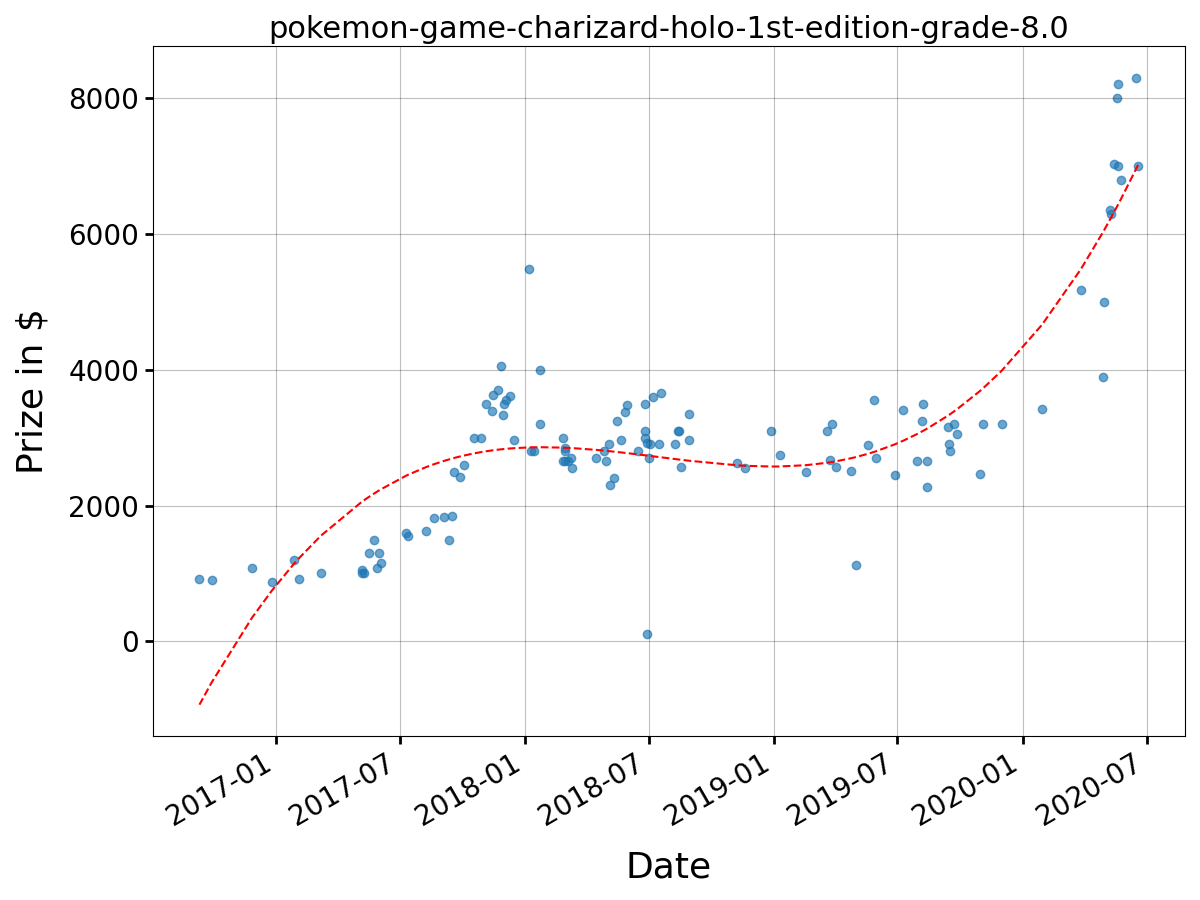
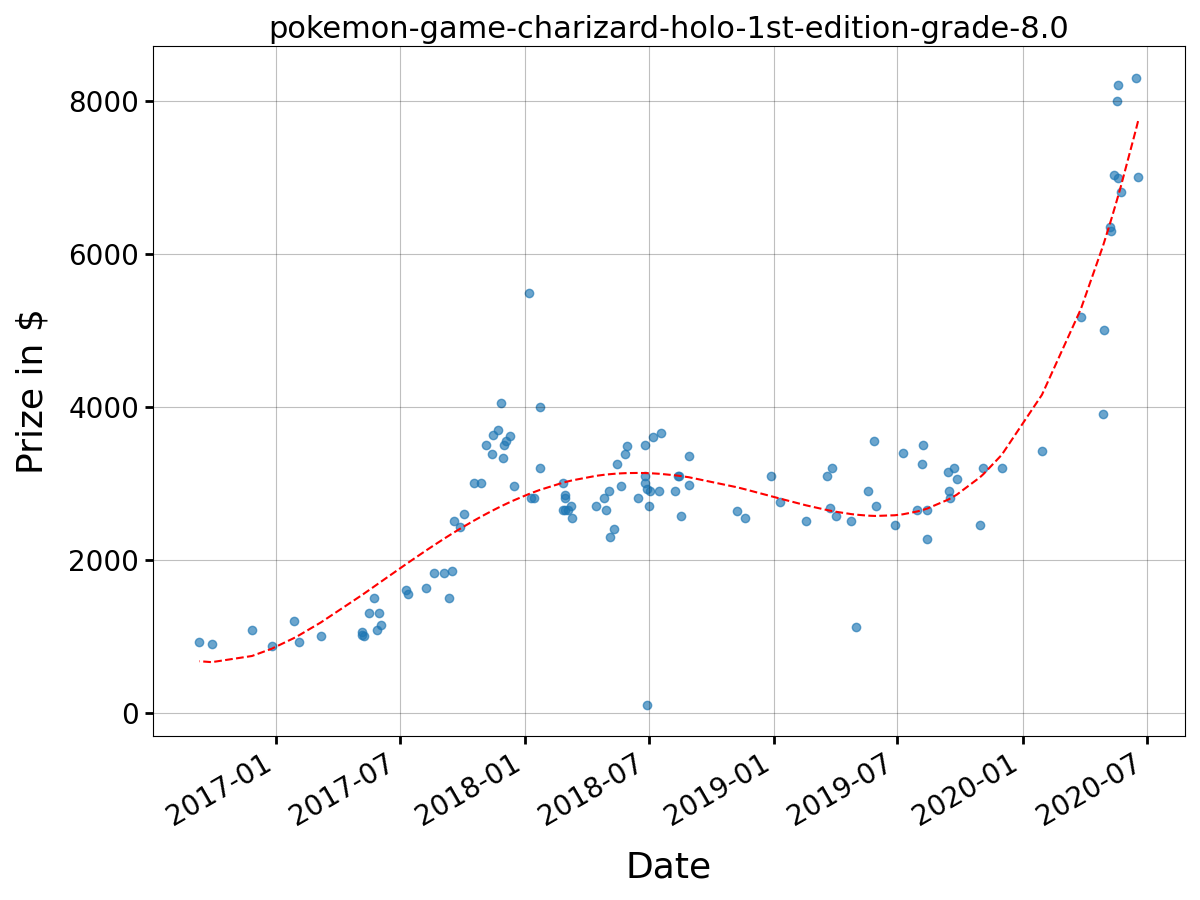
increase poly degree from 3 to 20

diff --git a/src/psa_prizes/analyze.py b/src/psa_prizes/analyze.py
@@ -172,7 +172,7 @@ def _scatter_prize_time(df: pd.DataFrame, title: str) -> Any:
         ax.scatter(df["date"], y, alpha=0.66)
 
         # Draw red trend line.
-        fit = np.polyfit(x, y, deg=3)
+        fit = np.polyfit(x, y, deg=20)
         p = np.poly1d(fit)
         ax.plot(x, p(x), "r--")
 
